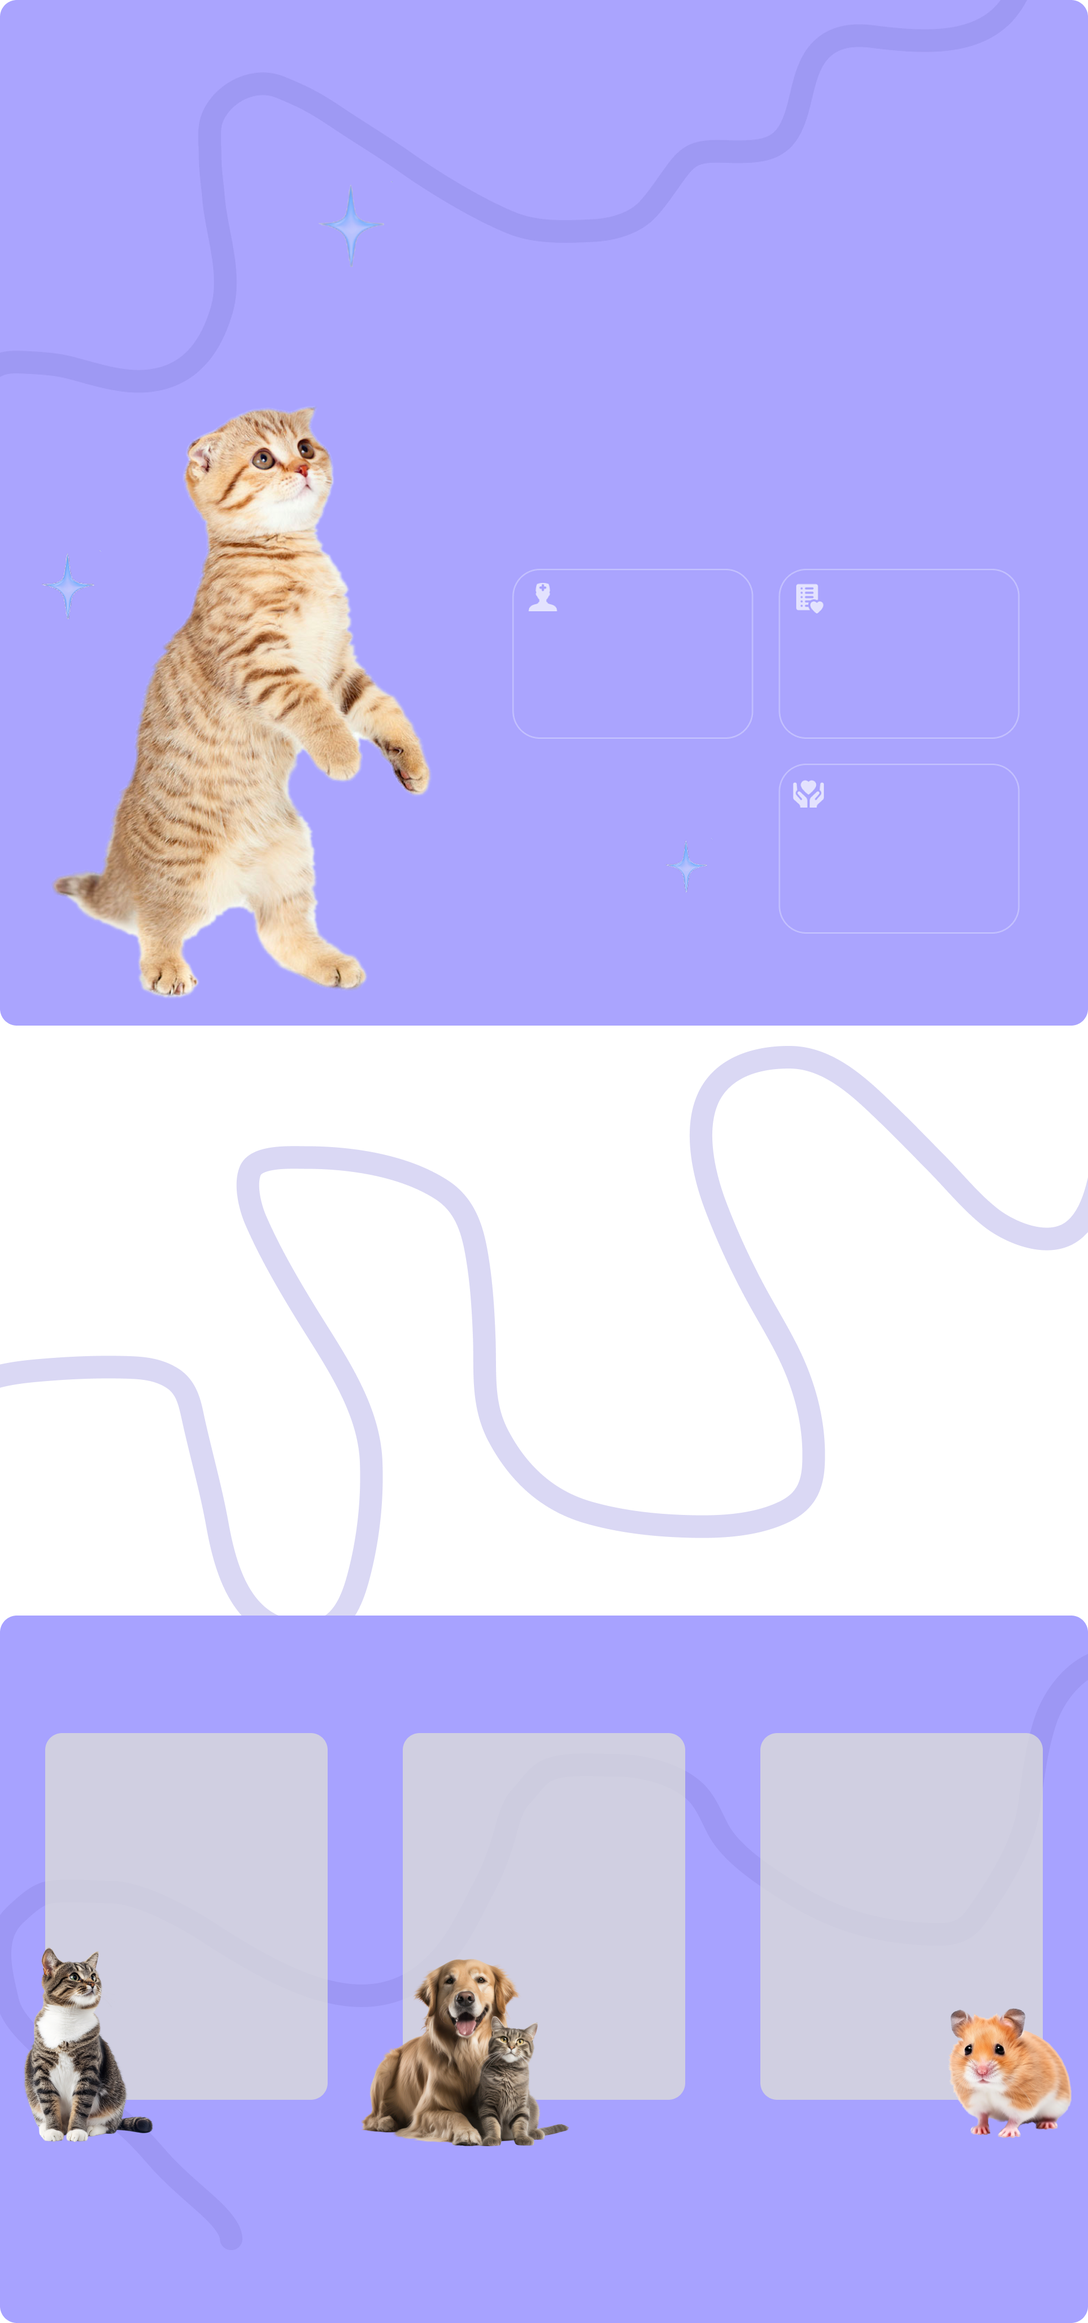
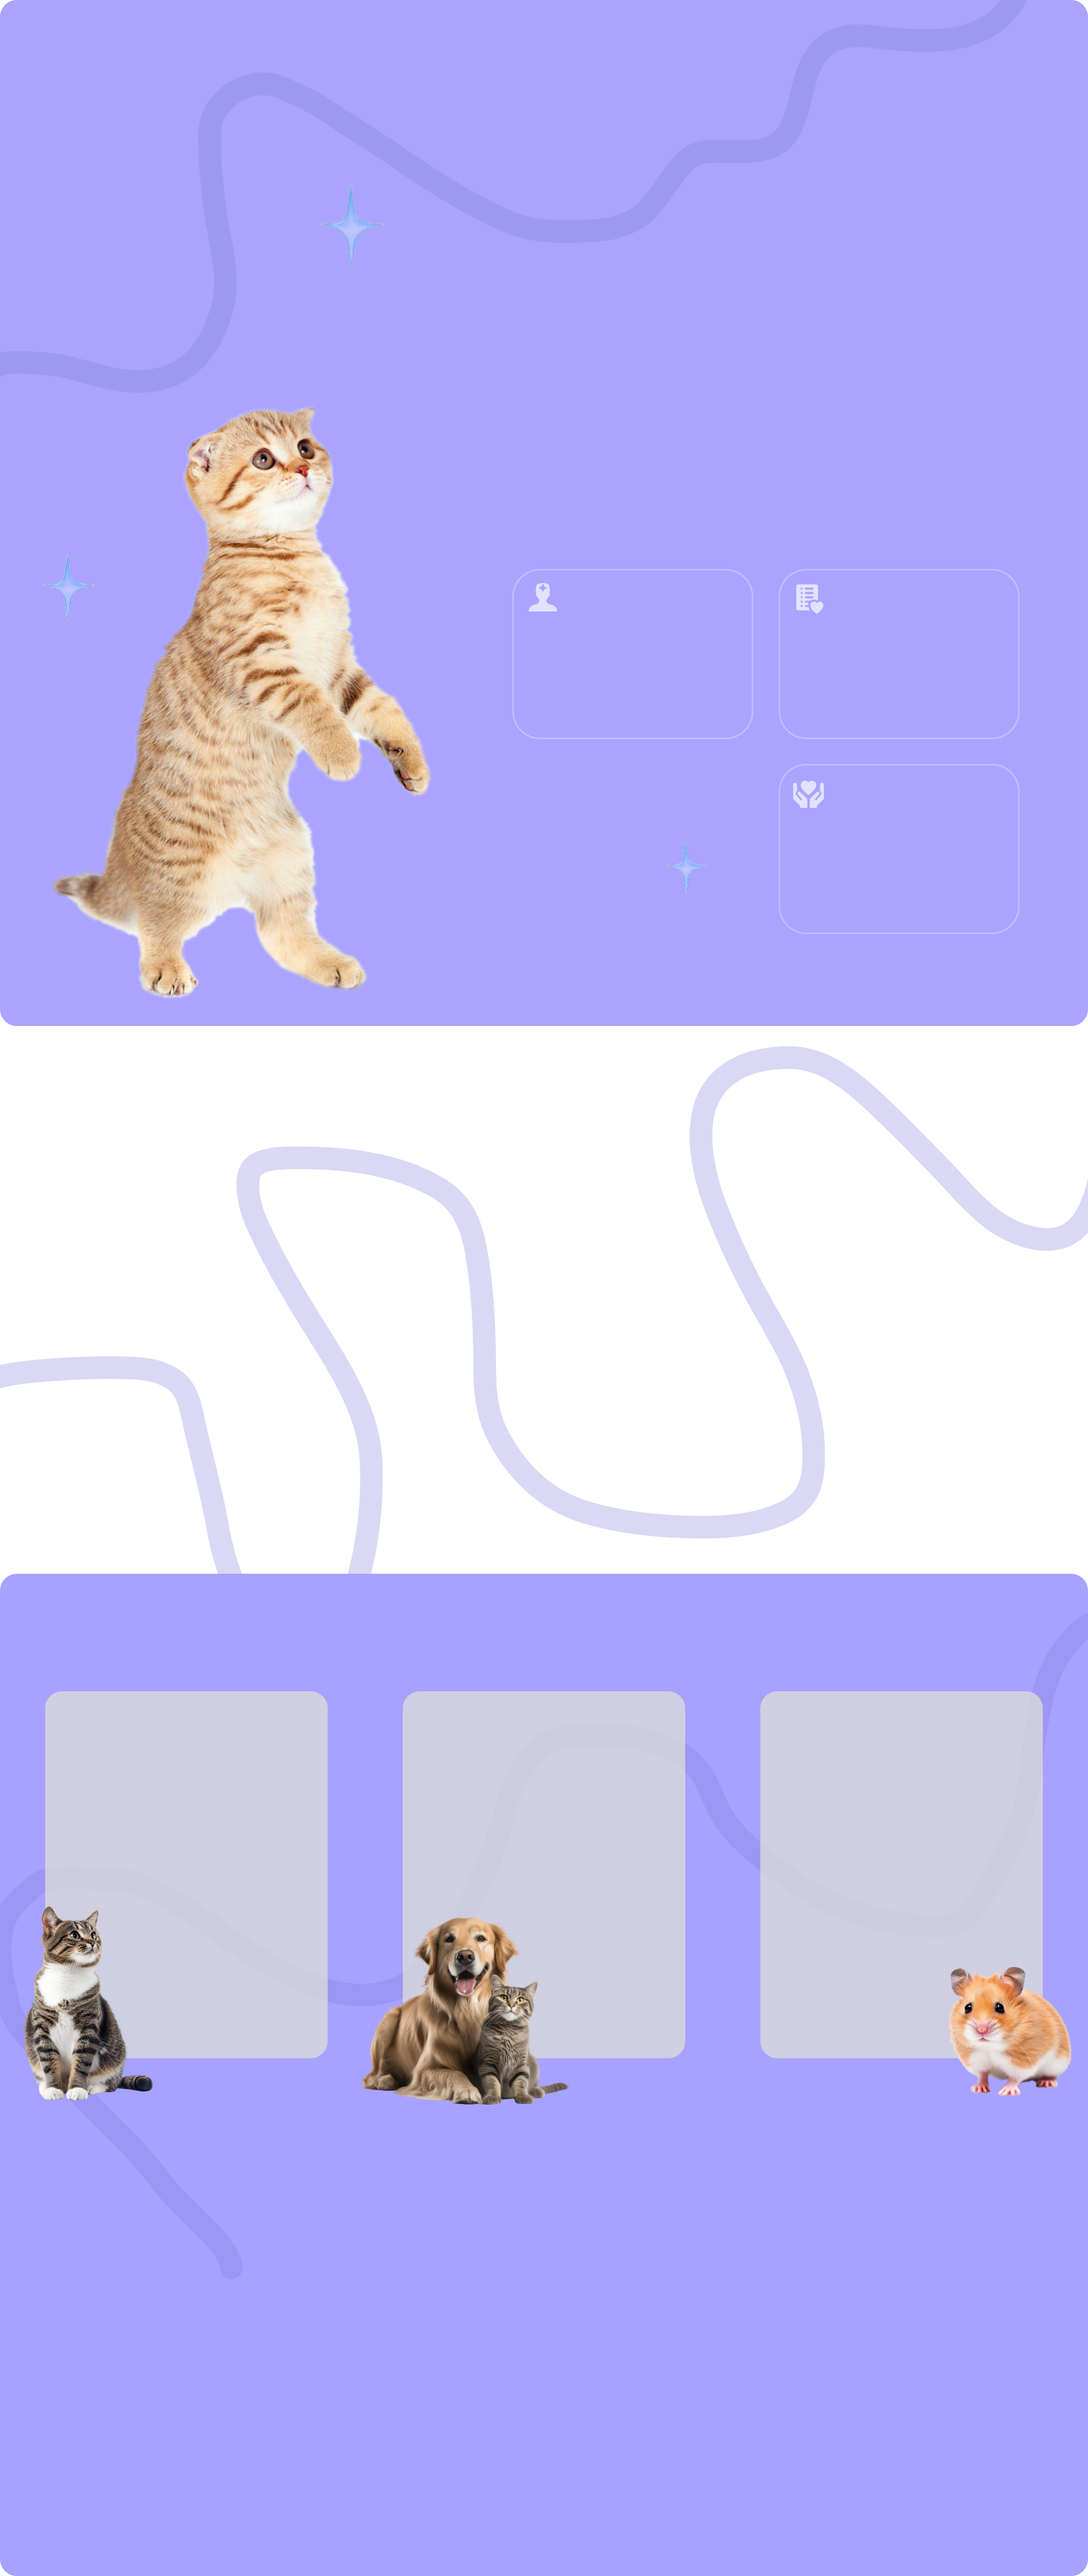
Add files via upload

diff --git a/main.css b/main.css
@@ -863,9 +863,11 @@ h1 {
 
 .about-container {
  background-repeat: no-repeat;
+ background-size: contain;
  background-position: center;
-
-
+width: 100%;
+height: 100%;
+min-height: 100vh;
 }
 
 .text-container {
